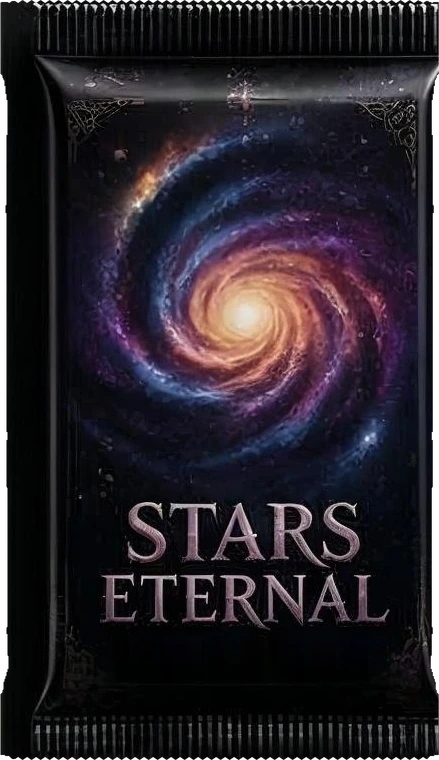
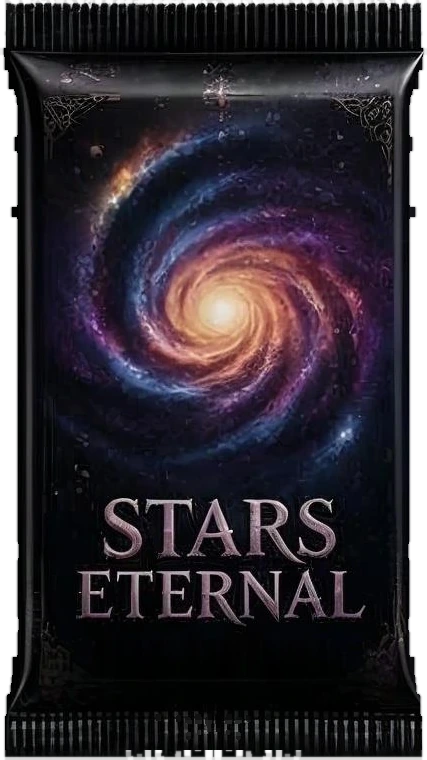
Prismatic packs: clean symmetric cut-outs, first in the Shop

diff --git a/src/ui/screens/ShopScreen.tsx b/src/ui/screens/ShopScreen.tsx
@@ -17,8 +17,8 @@ import '@/ui/styles/shop.css';
 
 /** Newest set first. */
 const SETS = (Object.keys(SET_INFO) as SetId[]).sort((a, b) => SET_INFO[b].releaseOrder - SET_INFO[a].releaseOrder);
-/** Set packs, newest first, then the Prismatic packs. */
-const SHOP_PACKS: PackId[] = [...SETS, 'PRISMATIC', 'PRISMATIC_LEGEND'];
+/** The Prismatic packs (newest), then set packs, newest first. */
+const SHOP_PACKS: PackId[] = ['PRISMATIC_LEGEND', 'PRISMATIC', ...SETS];
 const RARITY_LABEL: Record<Rarity, string> = { COMMON: 'Common', RARE: 'Rare', EPIC: 'Epic', LEGENDARY: 'Legendary' };
 const VARIANT_LABEL: Record<Variant, string> = { NORMAL: 'Normal', FOIL: 'Foil', PRISMATIC: 'Prismatic' };
 

diff --git a/src/i18n/cs/data/patchNotes.ts b/src/i18n/cs/data/patchNotes.ts
@@ -1,6 +1,11 @@
 import type { PatchNotesOverlay } from '../../overlayTypes';
 
 const notes: PatchNotesOverlay = {
+  '0.31.1': {
+    title: 'Úpravy prismatických balíčků',
+    summary: 'Čistěji oříznuté obrázky balíčků a prismatické balíčky v obchodě jako první.',
+    sections: [['Stars Eternal a Divine Ascension: obrázky balíčků jsou čistě oříznuté ze všech stran.', 'Obchod: prismatické balíčky jsou první, před Dragon Realm.']],
+  },
   '0.31.0': {
     title: 'Prismatické balíčky',
     summary: 'Dva prémiové balíčky v obchodě: Stars Eternal a Divine Ascension.',

diff --git a/src/data/patchNotes.ts b/src/data/patchNotes.ts
@@ -19,6 +19,14 @@ export interface PatchNote {
 
 export const PATCH_NOTES: PatchNote[] = [
   {
+    version: '0.31.1',
+    date: '2026-10-08',
+    title: 'Prismatic pack touch-ups',
+    summary: 'Cleaner pack art and the Prismatic packs first in the Shop.',
+    sections: [{ kind: 'fixed', items: ['Stars Eternal and Divine Ascension: the pack art is cut cleanly on every side.', 'Shop: the Prismatic packs come first, before Dragon Realm.'] }],
+    commits: [],
+  },
+  {
     version: '0.31.0',
     date: '2026-10-08',
     title: 'Prismatic packs',
